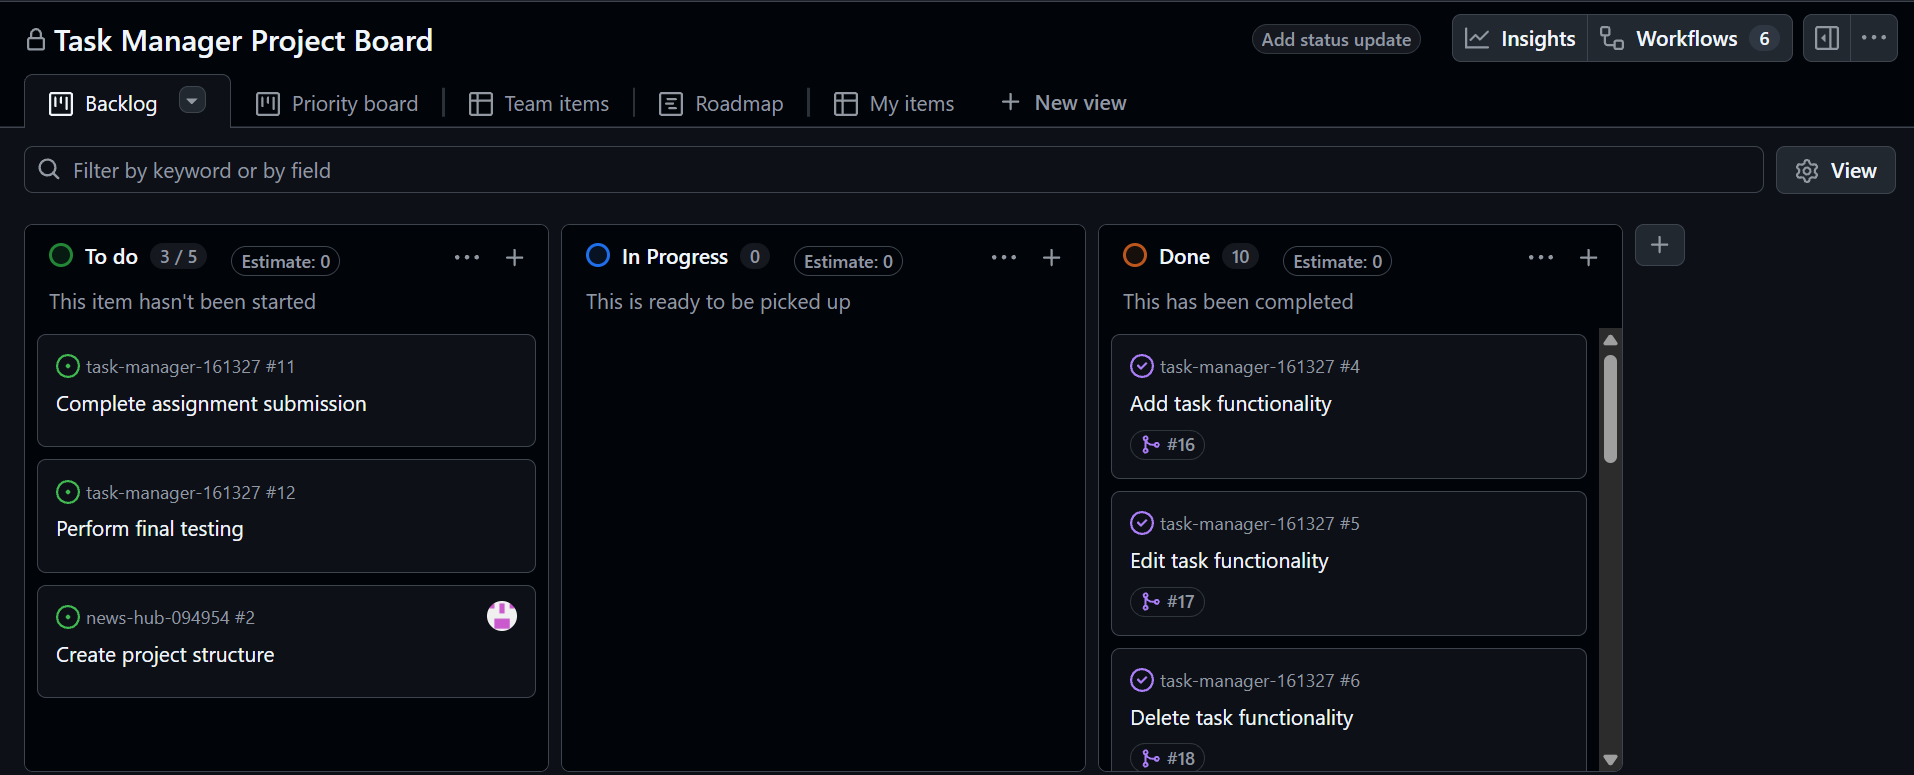
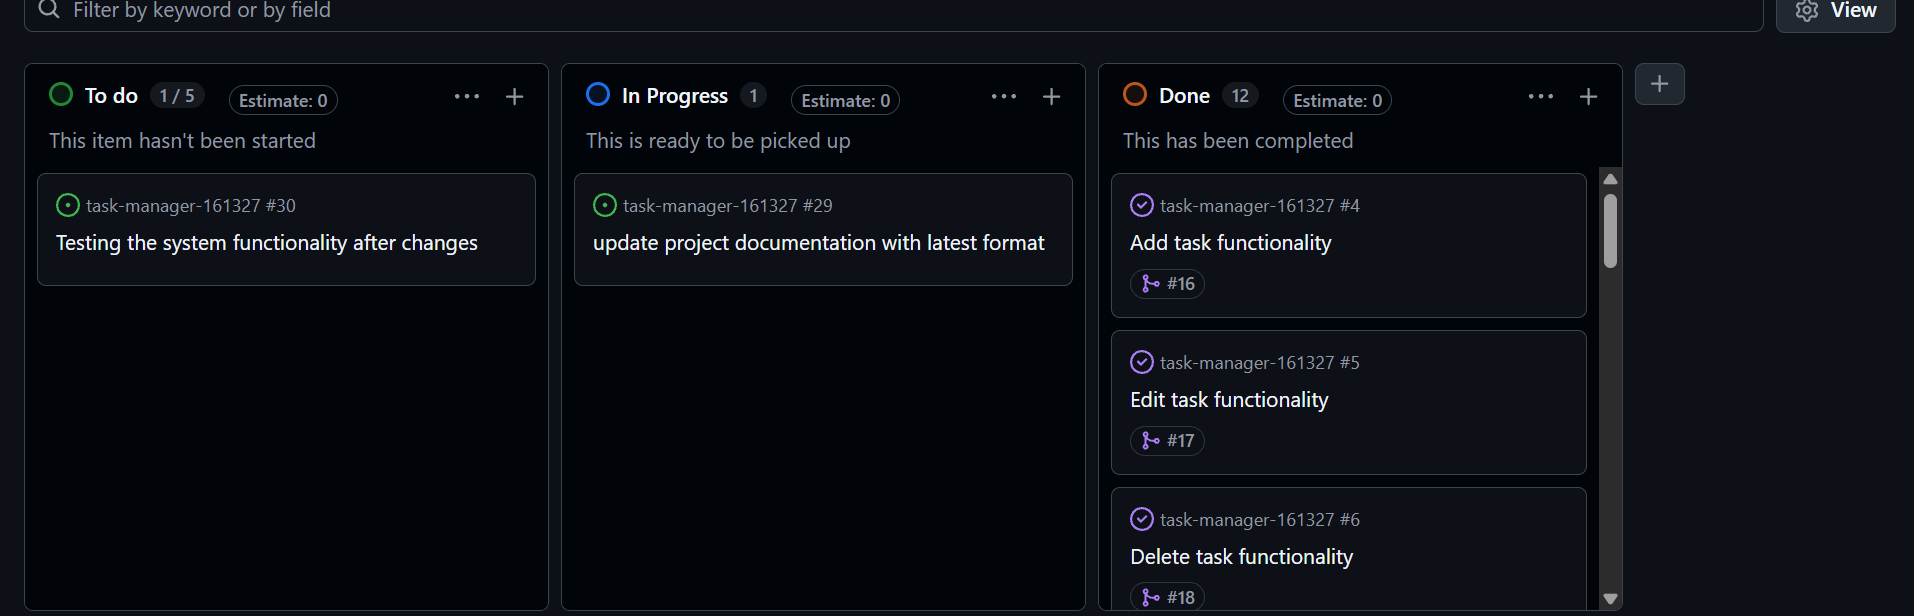
"docs(submission): update project report
Closes #29
with '#' will be ignored, and an empty message aborts the commit.

diff --git a/submissions.md b/submissions.md
@@ -14,43 +14,58 @@
 
 ---
 
-## 3. Learnings from the Git Crash Program
+## 3. Reflection 
 
-### Concept 1: Feature Branch Workflow
+### A. Your Best Commit
 
-* **How it helped me:** I learned to develop every feature on its own branch instead of working directly on the `main` branch. For example, I created separate branches such as `feat/4-add-task-functionality` and `feat/5-edit-task-functionality`, allowing me to work independently on each feature while keeping the `main` branch stable and always ready for deployment.
+* **Commit URL:** https://github.com/IS-PROJECT-2026/task-manager-161327/commit/0292fa9d731fbd606511c7650bba4727cc2500bc
 
-### Concept 2: Pull Requests
+* **Why this one?** This commit stands out to me because it uses the `style(ui)` Conventional Commit type, which was something I had not encountered before this project. It helped me understand that Conventional Commits are not limited to `feat` and `fix`, but can also communicate more specific types of changes, such as styling changes to the user interface.
 
-* **How it helped me:** I learned that Pull Requests are not just for team collaboration but also for reviewing my own work before merging it into `main`. After completing each feature, I opened a Pull Request, reviewed the changes on GitHub, and then merged it. Linking Pull Requests to issues also improved traceability throughout the project.
 
-### Concept 3: Conventional Commits
+### B. A Mistake or Struggle
 
-* **How it helped me:** I learned to write meaningful commit messages using the Conventional Commits specification. Instead of generic messages such as "updated files," I used commits like `feat(tasks): add task creation functionality` and `docs(readme): update project documentation`, making my Git history easier to understand and audit.
+* **Link to the evidence:** [https://github.com/IS-PROJECT-2026/task-manager-161327/issues/9]
 
-### Concept 4: Merge Conflict Resolution
+* What happened and how did you recover? My main struggle was understanding the practical purpose of connecting the feature-branch and Pull Request workflow to main before the application had reached a usable MVP. I questioned whether main should be deployed early when there was not yet a meaningful system to deploy, while keeping main undeployed made the purpose of the workflow less obvious to me.This was primarily a workflow dilemma rather than a technical mistake, and it shaped my understanding of how I would structure a similar project in the future.
 
-* **How it helped me:** I learned how merge conflicts occur when two branches modify the same section of code. During this project, I intentionally created a conflict between two feature branches, resolved the conflict using the conflict markers (`<<<<<<<`, `=======`, and `>>>>>>>`) in Visual Studio Code, committed the resolution, and successfully merged the changes. This gave me practical experience in handling conflicts that commonly occur during collaborative development.
+
+
+### C. A Pull Request  Proud Of
+
+* **PR URL:** https://github.com/IS-PROJECT-2026/task-manager-161327/pull/15
+
+* **What did you check before merging?** I reviewed the Pull Request diff to verify that the responsive layout changes were limited to the intended UI work and that the changes were consistent with the existing project structure. I also reviewed the PR and its associated branch before merging it into `main`, giving me an opportunity to self-review the implementation through the GitHub Pull Request workflow.
+
+
+### D. One Thing I Would Do Differently
+
+* **What would you change?** If I were starting the project again, I would define the MVP boundary earlier and establish the GitHub Pages deployment immediately after reaching that MVP. This would give `main` a clear role as the stable, deployed version of the application while feature branches and Pull Requests would represent controlled changes to that live system.
+
+* **Link to the evidence of the original decision:** [https://github.com/IS-PROJECT-2026/task-manager-161327/issues/9]
+
+
+
 
 ## 4. Screenshots of Key GitHub Features
 
 ### A. Milestones and Issues
-![Task Management Features milestone](assets/images/milestone.png)
+![GitHub milestone panel showing Task Management Features issues grouped under a milestone](assets/images/milestone.png)
 
 **Caption:** The **Task Management Features** milestone organized the application's core features into separate GitHub issues for adding, editing, deleting, and marking tasks as completed, making development progress easy to track.
 
 ---
 
 ### B. Project Board
-![GitHub Project Board workflow](assets/images/projectboard.png)
+![Kanban style GitHub project board with columns To Do In Progress and Done and cards representing project tasks](assets/images/projectboard.png)
 
-**Caption:** GitHub Project Board demonstrating task progression across the To Do, In Progress, and Done columns.
+**Caption:** GitHub Project Board demonstrating task progression across the To Do, In Progress, and Done columns. Most of the task has being completed at this particular point in time but two remained one in progress as the submissions file was being updated and  the  one  in the to be done stage as the live system was to be tested  again if it were live because  some changes were m,ade
 
 ---
 
 ### C. Branching Architecture
 
-![Branching-architecture -remote](assets/images/branching_architecture.png)
+![Branching strategy diagram showing feature style docs and chore branches merging into main](assets/images/branching_architecture.png)
 
 **Caption:** The project followed an issue-based branching strategy, where each feature and documentation task was developed in its own branch using conventional naming patterns such as `feat/`, `style/`, `docs/`, and `chore/` before being merged into the `main` branch through Pull Requests.
 
@@ -59,36 +74,63 @@
 
 ### D. Pull Requests & Traceability
 
-![Delete Task Functionality Pull Request](assets/images/pullrequests.png)
+![GitHub Pull Request for delete task functionality linked to issue number 6 showing merge traceability](assets/images/pullrequests.png)
 
 **Caption:** This Pull Request implements the **Delete Task Functionality** feature and is linked to **Issue #6** using the `Closes #6` keyword. This demonstrates traceability from issue creation, feature development, and Pull Request review to the final merge into the `main` branch.
 
 
 ---
 
-## 5. The Merge Conflict Chronology
+## 5. Merge Conflict Evidence
 
-### Step 1: Generating the Clash
+The project demonstrates three separate merge conflicts, each caused by a different Git merge scenario. Each conflict was intentionally engineered, resolved, and committed.
 
-![ merge conflict ](assets/images/terminal.png)
+### Conflict 1 — Same Lines Modified Differently
 
-**Caption:** A merge conflict occurred when the `feat/7-mark-task-completed` branch attempted to merge the latest changes from the `main` branch. Both branches contained different modifications to the same line in `js/script.js`, specifically the task title field in the dummy task data. Git detected the conflicting changes and stopped the merge process, requiring manual conflict resolution.
+**What cause did you use?** Same lines modified differently.
 
+#### Step 1: Generating the Clash
+    ![Terminal screenshot showing a Git merge conflict during branch merge with error details and commands](assets/images/terminal1-conflict.png)
+
+
+* **Caption:** A merge conflict occurred when the `feat/7-mark-task-completed` branch attempted to merge changes from `main`. Both branches contained different modifications to the same line in `js/script.js`, specifically the task title field in the dummy task data. Git detected the conflicting changes and stopped the merge process, requiring manual conflict resolution.
+
+#### Step 2: Inside the Code Editor (Native Conflict Markers)
+
+![Visual Studio Code editor displaying native Git conflict markers in js script js file for competing task title changes](evidence/conflict_evidence1.png)
+
+* **Caption:** Visual Studio Code displayed the native Git conflict markers (`<<<<<<< HEAD`, `=======`, and `>>>>>>>`) showing the competing changes from the two branches. I reviewed the alternatives and selected the appropriate final version before completing the resolution.
+
+#### Step 3: Resolution & Clean Merge
+
+[mergeresolution for conflict 1](assets/images/merge_resolution.png)
+
+* **Caption:** The merge conflict was successfully resolved by preserving the main branch version containing the dashboard interface implementation. The final unified js/script.js file was merged successfully, maintaining the intended application functionality on the main branch.
 
 ---
 
-### Step 2: Inside the Code Editor (Native Conflict Markers)
+### Conflict 2 — Both Branches Added the Same File
+**What cause did you use?** Add/add conflict.
 
-![Visual Studio Code showing native Git conflict markers during conflict resolution](evidence/conflict_evidence.png)
+**Branches: conflict-2-add-a and conflict-2-add-b**
 
-- **Caption:** Visual conflict markers inside Visual Studio Code showing the competing changes before resolving the conflict. The final version was selected after reviewing both implementations to preserve the intended functionality.
+**Why does this cause trigger a conflict?** This was an add/add conflict because both branches independently created a file named conflict2-demo.txt from the same common starting point. Branch A created the file with the content “This file was created by branch A.”, while Branch B created the same file with the content “This file was created by branch B.” Git could not automatically determine which version of the newly added file should be retained, so it stopped the merge and required manual resolution.
+![Visual Studio Code editor displaying native Git conflict markers in js script js file for competing task title changes](evidence/conflict_evidence2.png)
+
+[Terminal screenshot showing a Git merge conflict during branch merge with error details and commands](assets/images/terminal2-conflict.png)
+
+**Caption**: The add/add conflict was generated when conflict-2-add-a was merged into conflict-2-add-b. Both branches had independently created conflict2-demo.txt with different contents. Git displayed the competing versions using conflict markers, allowing the conflict to be identified and manually resolved.
 
 ---
 
+### Conflict 3 — Modify/Delete Conflict
 
+**What cause did you use?** One branch modified a file while another branch deleted it.
 
-### Step 3: Resolution & Clean Merge Log
+**Branches:** `conflict-3-delete` and `conflict-3-modify`
 
-![Merged pull request showing successful](assets/images/merge_resolution.png)
+**Why does this cause trigger a conflict?** `conflict-3-delete` deleted `conflict3-demo.txt`, while `conflict-3-modify` modified the same file. Git could not automatically determine whether the file should be deleted or retained, so it stopped the merge and required a manual resolution.
 
--  **Caption:** The merge conflict was successfully resolved by preserving the `main` branch version containing the dashboard interface implementation. The final unified `js/script.js` file was merged successfully, maintaining the intended application functionality on the `main` branch.
+[ CONFLICT 3 SCREENSHOT](evidence/conflict-evidence3.png)
+
+* **Caption:** Git reported a modify/delete conflict after `conflict-3-delete` was merged into `conflict-3-modify`. The terminal showed the file as **“deleted by them”**, indicating that one branch had deleted the file while the other had modified it. Unlike a content conflict, this was a file-operation conflict, so Git did not insert `<<<<<<<`, `=======`, and `>>>>>>>` markers into the file. I resolved the conflict by retaining the modified version and committed the resolution.
